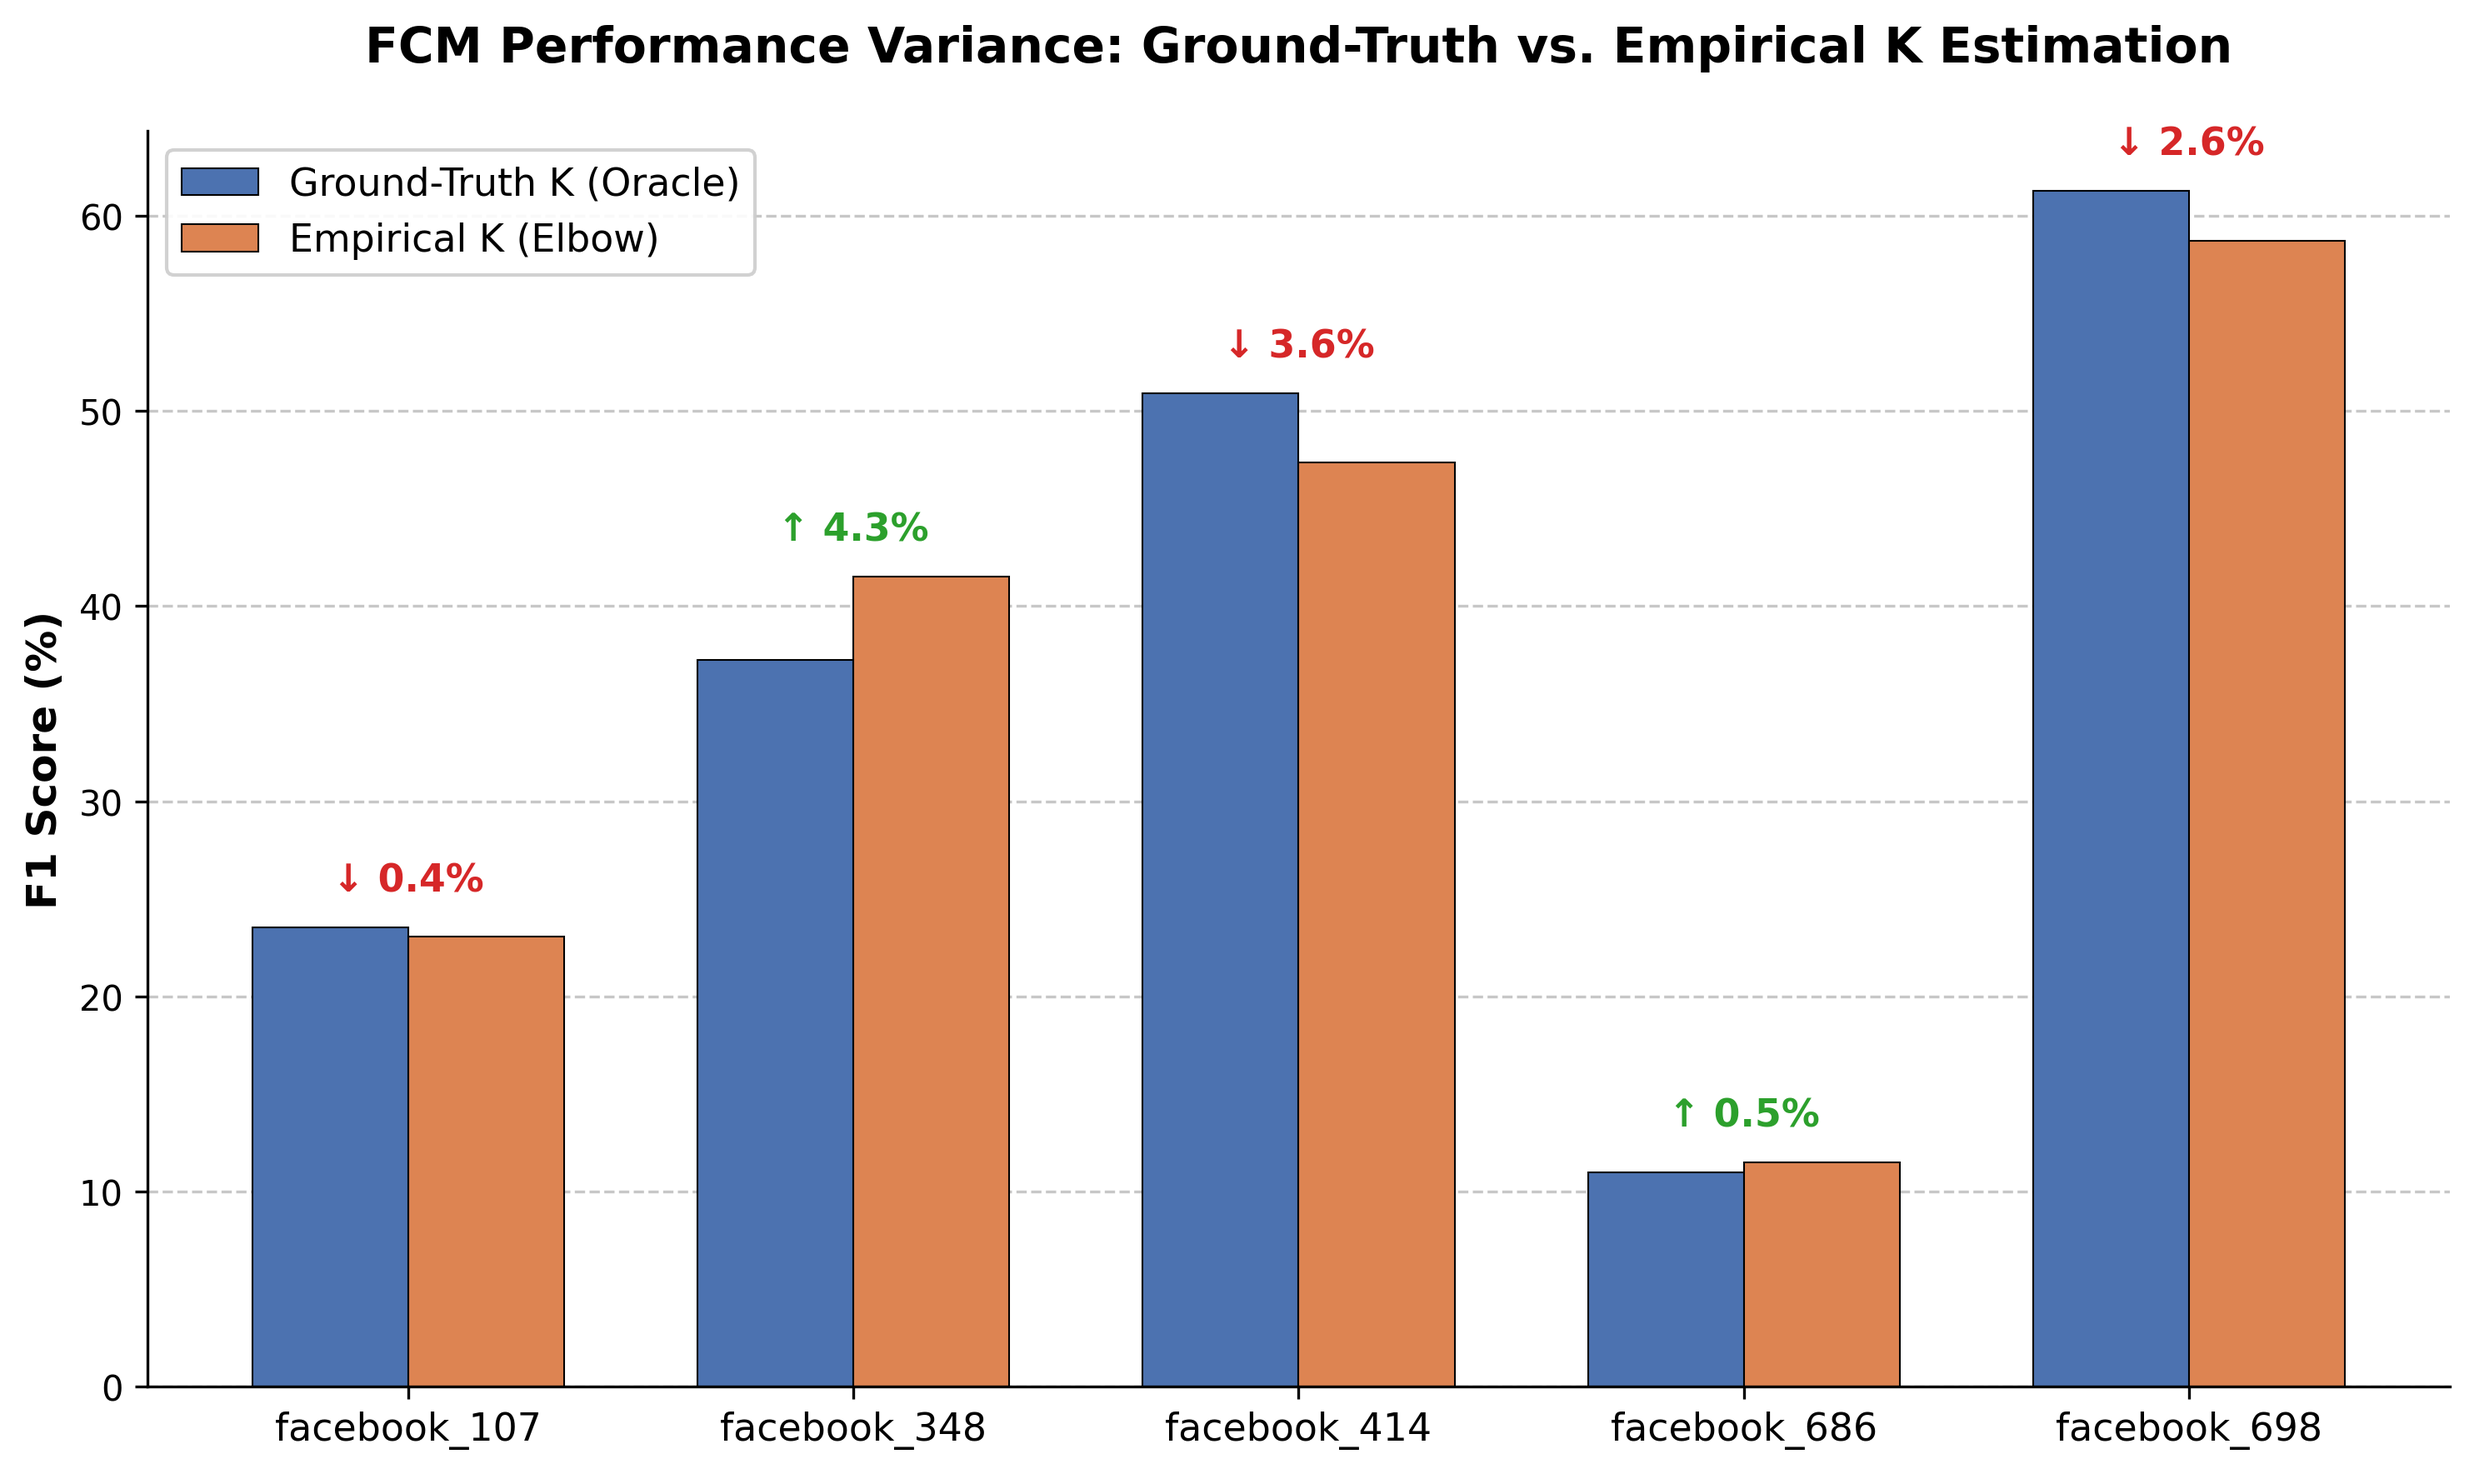
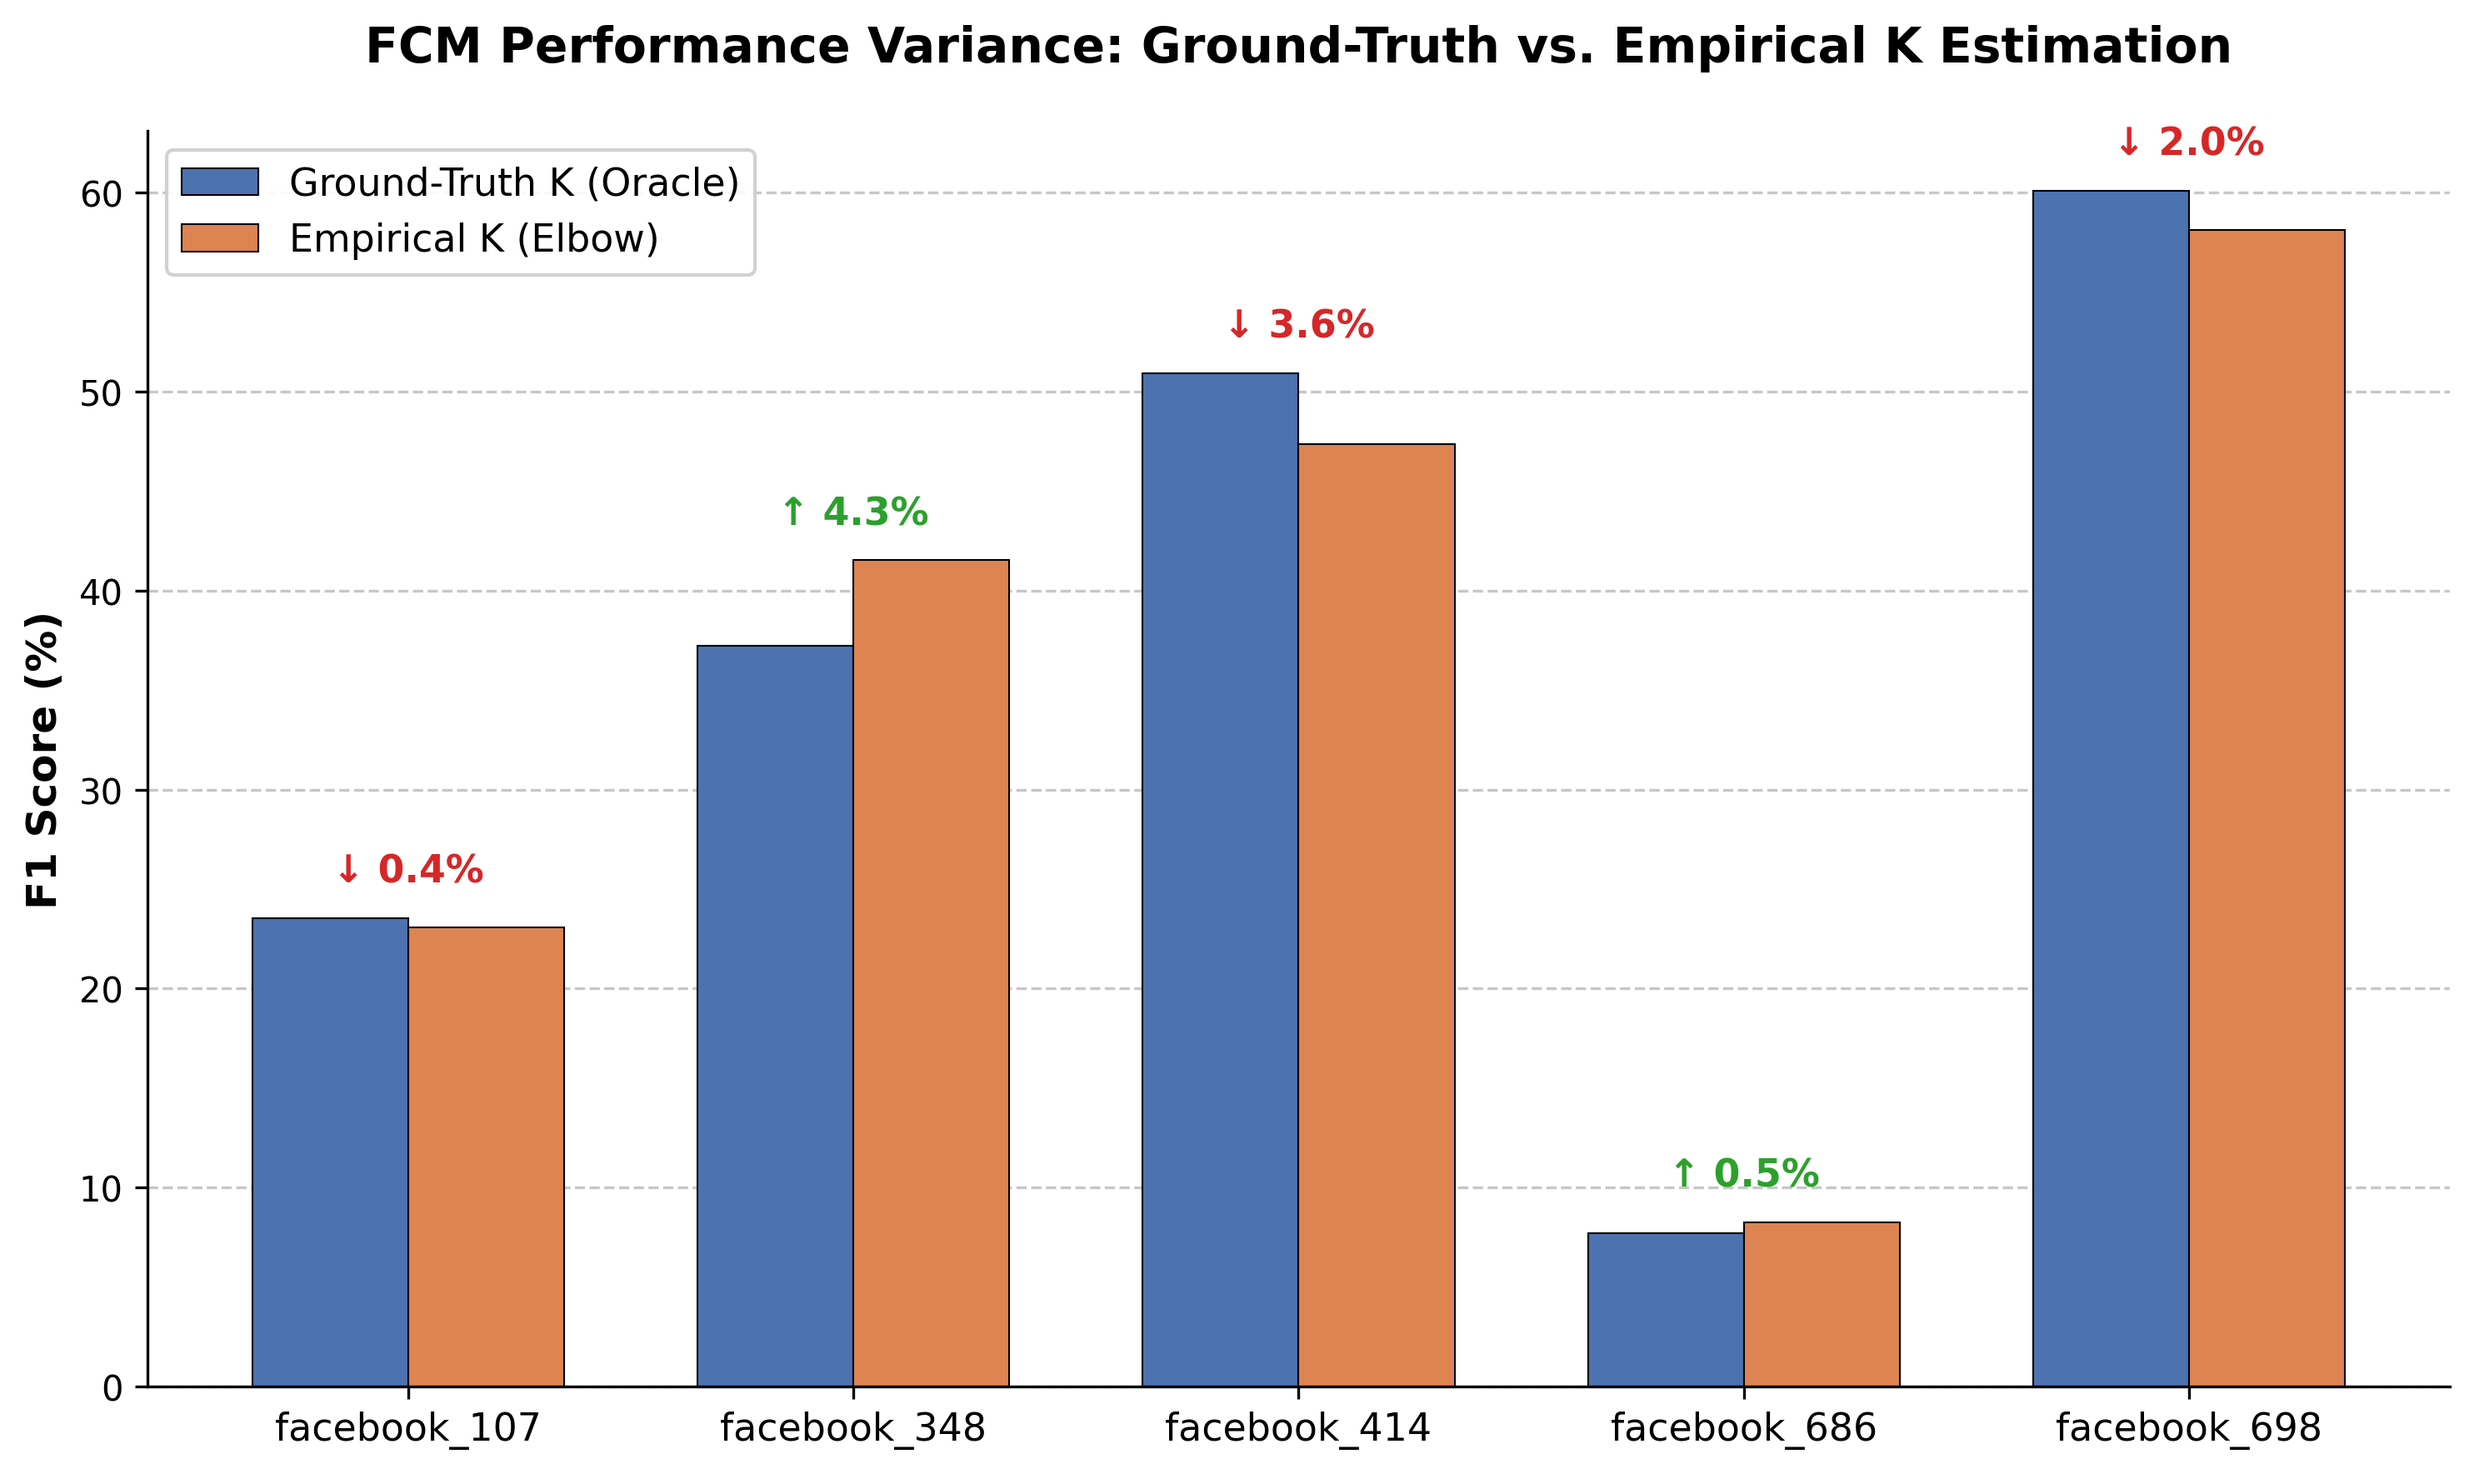
final version

diff --git a/train.py b/train.py
@@ -46,7 +46,6 @@ for args.dataset in datasets:
 
     if args.dataset.startswith('facebook'):
         # Global defaults for all facebook datasets
-        args.gnnlayers = 2
         args.lr = 1e-3
         args.epsilon = 0.7
         args.replay_buffer_size = 100
@@ -60,20 +59,22 @@ for args.dataset in datasets:
             args.dims = [1500] 
             args.threshold = 0.95 
             args.gamma = 2.0
+            args.gnnlayers = 2
 
         elif ego_id == '348':
             args.min_cluster = 10 
             args.n_input = 128    
             args.dims = [1280]
-            args.gnnlayers = 5   
             args.threshold = 0.8  
+            args.gnnlayers = 5   
+            args.gamma = 1
 
         elif ego_id == '414':
             args.min_cluster = 3 
             args.n_input = -1     
             args.dims = [1500]
-            args.gamma = 1.2
             args.threshold = 0.8
+            args.gamma = 1.2
             args.gnnlayers = 3
             
         elif ego_id == '686':
@@ -88,8 +89,8 @@ for args.dataset in datasets:
             args.min_cluster = 9 
             args.n_input = -1     
             args.dims = [256]
-            args.gamma = 1.8
             args.threshold = 0.9
+            args.gamma = 1.8
             args.gnnlayers = 2
 
             
@@ -138,11 +139,10 @@ for args.dataset in datasets:
         best_cluster = 0
 
         # MLP
-        model = my_model([sm_fea_s.shape[1]] + args.dims)
-        # if ego_id == '107' or ego_id == '686':
-        #     model = my_model([sm_fea_s.shape[1]] + args.dims)
-        # else:
-        #     model = my_model([sm_fea_s.shape[1]] + args.dims, act="ident")
+        if ego_id == '348' or ego_id == '414':
+            model = my_model([sm_fea_s.shape[1]] + args.dims, act="ident")
+        else:
+            model = my_model([sm_fea_s.shape[1]] + args.dims)
         Q_net = my_Q_net(args.dims + [256, args.max_action]).to(device)
         optimizer = optim.Adam(model.parameters(), lr=args.lr)
         optimizer_Q = optim.Adam(Q_net.parameters(), lr=args.Q_lr)

diff --git a/draw_chart_onmi.py b/draw_chart_onmi.py
@@ -6,8 +6,8 @@ def create_onmi_delta_bar_chart():
     datasets = ['facebook_107', 'facebook_348', 'facebook_414', 'facebook_686', 'facebook_698']
     
     # K-Means ONMI Scores (%)
-    oracle_scores = [4.03, 17.90, 31.65, 1.76, 32.88]
-    empirical_scores = [2.81, 20.84, 22.65, 1.83, 33.89]
+    oracle_scores = [7.18, 20.63, 43.09, 9.68, 42.05]
+    empirical_scores = [7.53, 21.15, 37.62, 10.48, 40.65]
     
     # 2. Plot Configuration
     x = np.arange(len(datasets))  # Label locations
@@ -26,7 +26,7 @@ def create_onmi_delta_bar_chart():
     
     # 4. Add Labels, Title, and Custom Axes (Small Font Configuration)
     ax.set_ylabel('ONMI Score (%)', fontsize=10, fontweight='bold')
-    ax.set_title('FCM Performance Variance: Ground-Truth vs. Empirical K Estimation', fontsize=12, fontweight='bold', pad=15)
+    ax.set_title('K-Means Performance Variance: Ground-Truth vs. Empirical K Estimation', fontsize=12, fontweight='bold', pad=15)
     ax.set_xticks(x)
     ax.set_xticklabels(datasets, fontsize=9)
     ax.tick_params(axis='y', labelsize=9)
@@ -66,7 +66,7 @@ def create_onmi_delta_bar_chart():
 
     # 6. Final Layout Adjustments and Save
     plt.tight_layout()
-    plt.savefig('fcm_onmi_variance_chart.png', bbox_inches='tight')
+    plt.savefig('kmeans_onmi_variance_chart.png', bbox_inches='tight')
     plt.show()
 
 if __name__ == "__main__":

diff --git a/draw_chart_f1.py b/draw_chart_f1.py
@@ -6,8 +6,8 @@ def create_delta_bar_chart():
     datasets = ['facebook_107', 'facebook_348', 'facebook_414', 'facebook_686', 'facebook_698']
     
     # K-Means F1 Scores (%)
-    oracle_scores = [23.52, 37.23, 50.93, 10.99, 61.29]
-    empirical_scores = [23.08, 41.52, 47.36, 11.48, 58.71]
+    oracle_scores = [29.34, 42.98, 56.82, 11.40, 64.41]
+    empirical_scores = [30.33, 43.25, 54.66, 12.57, 58.00]
     
     # 2. Plot Configuration
     x = np.arange(len(datasets))  # Label locations
@@ -26,7 +26,7 @@ def create_delta_bar_chart():
     
     # 4. Add Labels, Title, and Custom Axes
     ax.set_ylabel('F1 Score (%)', fontsize=12, fontweight='bold')
-    ax.set_title('FCM Performance Variance: Ground-Truth vs. Empirical K Estimation', fontsize=14, fontweight='bold', pad=20)
+    ax.set_title('K-Means Performance Variance: Ground-Truth vs. Empirical K Estimation', fontsize=14, fontweight='bold', pad=20)
     ax.set_xticks(x)
     ax.set_xticklabels(datasets, fontsize=11)
     
@@ -68,7 +68,7 @@ def create_delta_bar_chart():
 
     # 6. Final Layout Adjustments and Save
     plt.tight_layout()
-    plt.savefig('fcm_f1_variance_chart.png', bbox_inches='tight')
+    plt.savefig('kmeans_f1_variance_chart.png', bbox_inches='tight')
     plt.show()
 
 if __name__ == "__main__":

diff --git a/run_fcm_elbow.py b/run_fcm_elbow.py
@@ -12,8 +12,8 @@ HYPERPARAMS = {
     "facebook_107":  {"n_input": -1,  "threshold": 0.95, "gnnlayers": 2},
     "facebook_348":  {"n_input": 128, "threshold": 0.8,  "gnnlayers": 5},
     "facebook_414":  {"n_input": -1,  "threshold": 0.8,  "gnnlayers": 3},
-    "facebook_686":  {"n_input": -1,  "threshold": 0.6,  "gnnlayers": 4},
-    "facebook_698":  {"n_input": -1,  "threshold": 0.8,  "gnnlayers": 2},
+    "facebook_686":  {"n_input": -1,  "threshold": 0.7,  "gnnlayers": 1},
+    "facebook_698":  {"n_input": -1,  "threshold": 0.9,  "gnnlayers": 2},
 }
 
 # NEW: The K values discovered via the Elbow Method on smoothed features
@@ -21,7 +21,7 @@ ELBOW_PREDICTED_K = {
     "facebook_107": 8,
     "facebook_348": 7,
     "facebook_414": 10,
-    "facebook_686": 9,
+    "facebook_686": 10,
     "facebook_698": 10
 }
 

diff --git a/elbow.py b/elbow.py
@@ -18,8 +18,8 @@ HYPERPARAMS = {
     "facebook_107":  {"n_input": -1,  "threshold": 0.95, "gnnlayers": 2},
     "facebook_348":  {"n_input": 128, "threshold": 0.8,  "gnnlayers": 5},
     "facebook_414":  {"n_input": -1,  "threshold": 0.8,  "gnnlayers": 3},
-    "facebook_686":  {"n_input": -1,  "threshold": 0.6,  "gnnlayers": 4},
-    "facebook_698":  {"n_input": -1,  "threshold": 0.8,  "gnnlayers": 2},
+    "facebook_686":  {"n_input": -1,  "threshold": 0.7,  "gnnlayers": 1},
+    "facebook_698":  {"n_input": -1,  "threshold": 0.9,  "gnnlayers": 2},
 }
 
 def run_elbow_method(dataset_name, X, max_k=30):

diff --git a/run_fcm.py b/run_fcm.py
@@ -13,8 +13,8 @@ HYPERPARAMS = {
     "facebook_107":  {"n_input": -1,  "threshold": 0.95, "gnnlayers": 2},
     "facebook_348":  {"n_input": 128, "threshold": 0.8,  "gnnlayers": 5},
     "facebook_414":  {"n_input": -1,  "threshold": 0.8,  "gnnlayers": 3},
-    "facebook_686":  {"n_input": -1,  "threshold": 0.6,  "gnnlayers": 4},
-    "facebook_698":  {"n_input": -1,  "threshold": 0.8,  "gnnlayers": 2},
+    "facebook_686":  {"n_input": -1,  "threshold": 0.7,  "gnnlayers": 1},
+    "facebook_698":  {"n_input": -1,  "threshold": 0.9,  "gnnlayers": 2},
 }
 
 def run_fcm_on_facebook_datasets():

diff --git a/run_kmeans_elbow.py b/run_kmeans_elbow.py
@@ -13,14 +13,14 @@ HYPERPARAMS = {
     "facebook_107":  {"n_input": -1,  "gnnlayers": 2},
     "facebook_348":  {"n_input": 128, "gnnlayers": 5},
     "facebook_414":  {"n_input": -1,  "gnnlayers": 3},
-    "facebook_686":  {"n_input": -1,  "gnnlayers": 4},
+    "facebook_686":  {"n_input": -1,  "gnnlayers": 1},
     "facebook_698":  {"n_input": -1,  "gnnlayers": 2},
 }
 ELBOW_PREDICTED_K = {
     "facebook_107": 8,
     "facebook_348": 7,
     "facebook_414": 10,
-    "facebook_686": 9,
+    "facebook_686": 10,
     "facebook_698": 10
 }
 def run_kmeans_on_facebook_datasets():

diff --git a/run_kmeans.py b/run_kmeans.py
@@ -13,7 +13,7 @@ HYPERPARAMS = {
     "facebook_107":  {"n_input": -1,  "gnnlayers": 2},
     "facebook_348":  {"n_input": 128, "gnnlayers": 5},
     "facebook_414":  {"n_input": -1,  "gnnlayers": 3},
-    "facebook_686":  {"n_input": -1,  "gnnlayers": 4},
+    "facebook_686":  {"n_input": -1,  "gnnlayers": 1},
     "facebook_698":  {"n_input": -1,  "gnnlayers": 2},
 }
 
